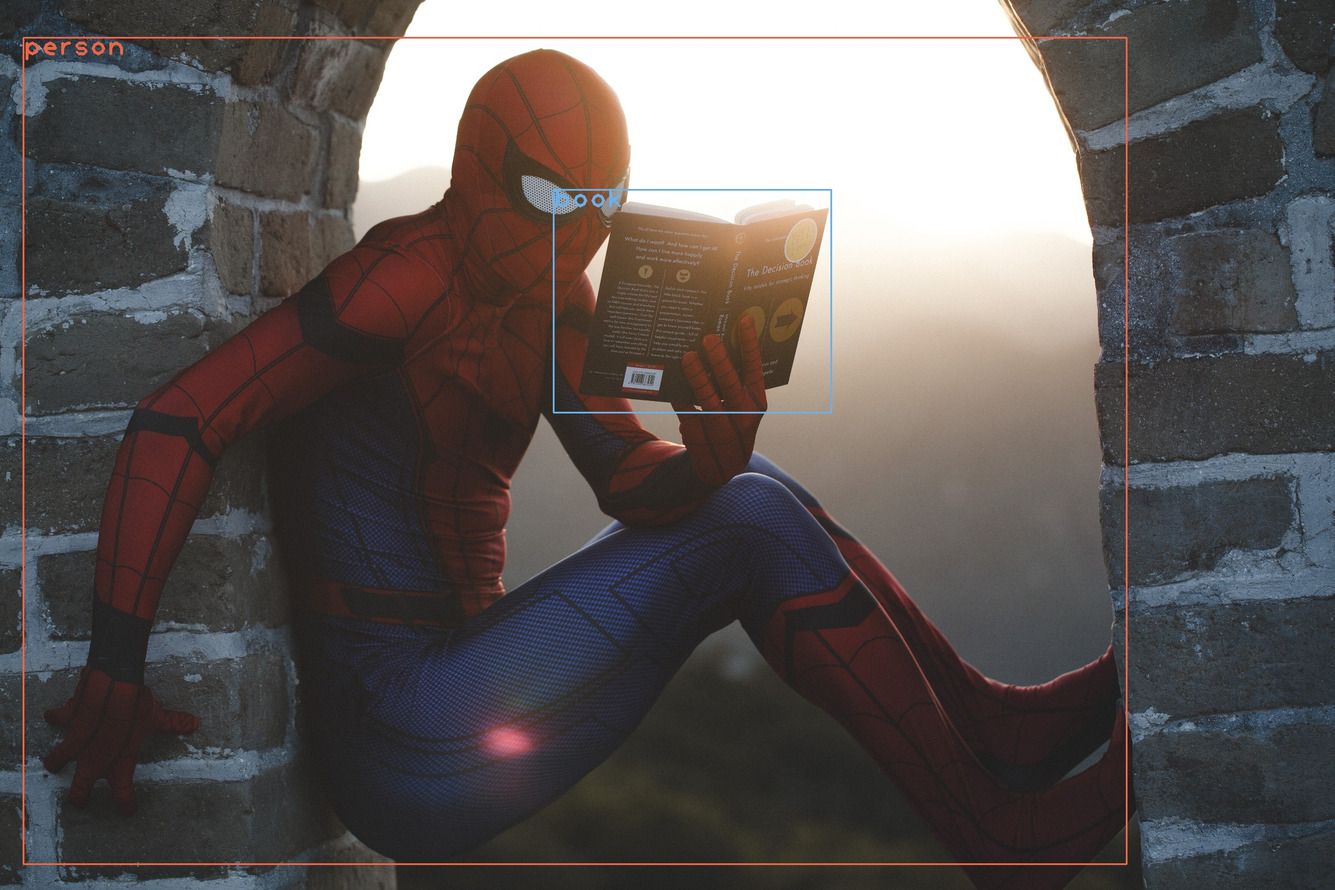
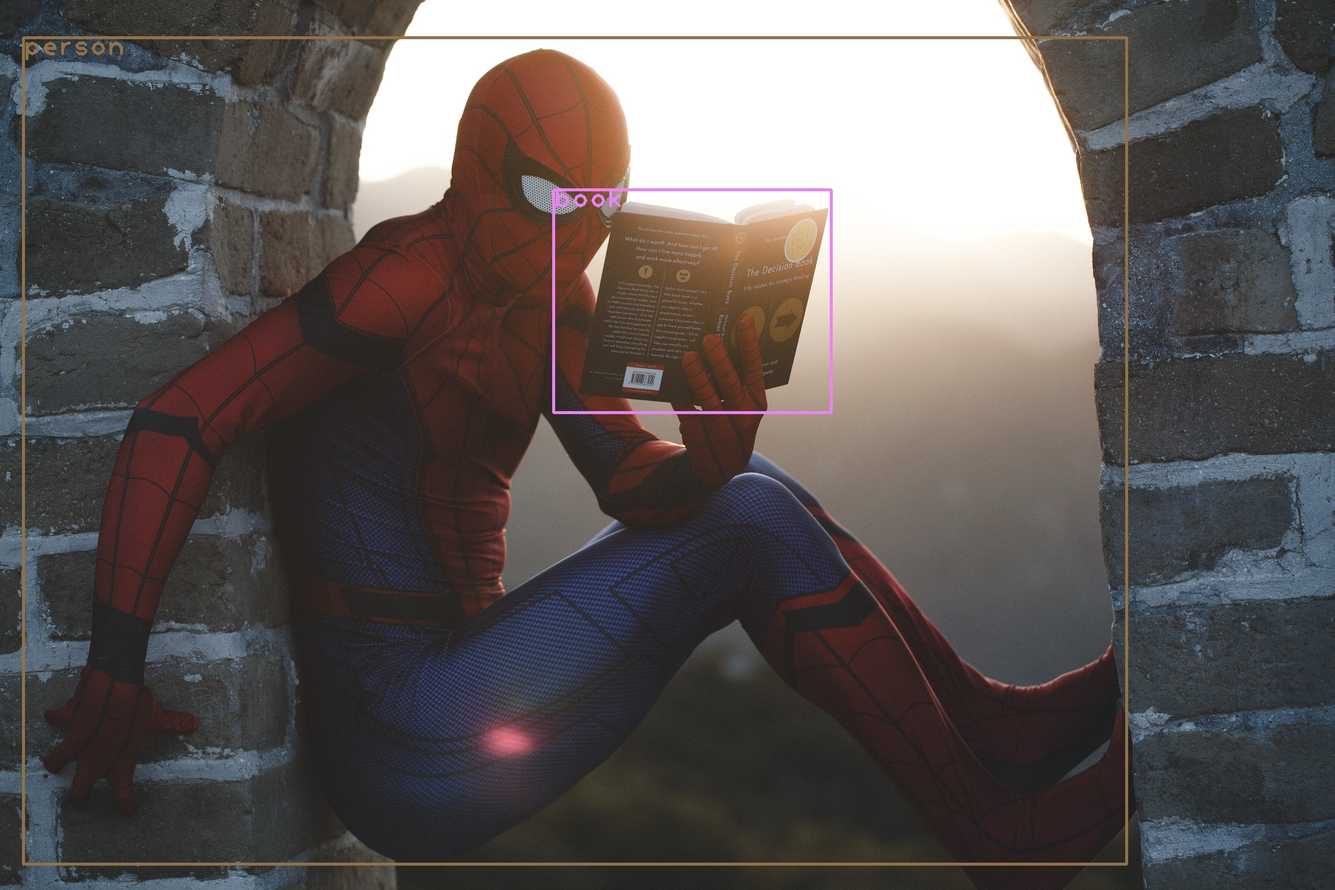
README

diff --git a/Session-13/opencv-detection/main.py b/Session-13/opencv-detection/main.py
@@ -4,7 +4,7 @@ import numpy as np
 # LOAD YOLO WEIGHTS
 net  = cv2.dnn.readNet("yolov3.weights","yolov3.cfg")
 classes = []
-image_name = "image01.jpg"
+image_name = "image03.jpg"
 
 with open("coco.names", "r") as f:
     classes = [line.strip() for line in f.readlines()]
@@ -55,7 +55,7 @@ for i in range(len(boxes)):
         x, y, w, h = boxes[i]
         label = str(classes[class_ids[i]])
         color = colors[i]
-        cv2.rectangle(img, (x, y), (x + w, y + h), color, 2)
+        cv2.rectangle(img, (x, y), (x + w, y + h), color, 3)
         cv2.putText(img, label, (x, y + 30), font, 3, color, 3)
 
 cv2.namedWindow("Image", cv2.WINDOW_NORMAL) 

diff --git a/Session-13/opencv-detection/README.md b/Session-13/opencv-detection/README.md
@@ -14,13 +14,17 @@
 
 ### RESULTS
 
+#### GOOD WORK
 <p align="center">
   <img width="50%" height="50%" src="https://github.com/myselfHimanshu/ai-vision-program/raw/master/Session-13/opencv-detection/image01.jpg"/>
 </p>
 
+#### FAILED
 <p align="center">
   <img width="50%" height="50%" src="https://github.com/myselfHimanshu/ai-vision-program/raw/master/Session-13/opencv-detection/image02.jpg"/>
 </p>
+
+#### FAILED ONE INSTANCE
 
 <p align="center">
   <img width="50%" height="50%" src="https://github.com/myselfHimanshu/ai-vision-program/raw/master/Session-13/opencv-detection/image03.jpg"/>
